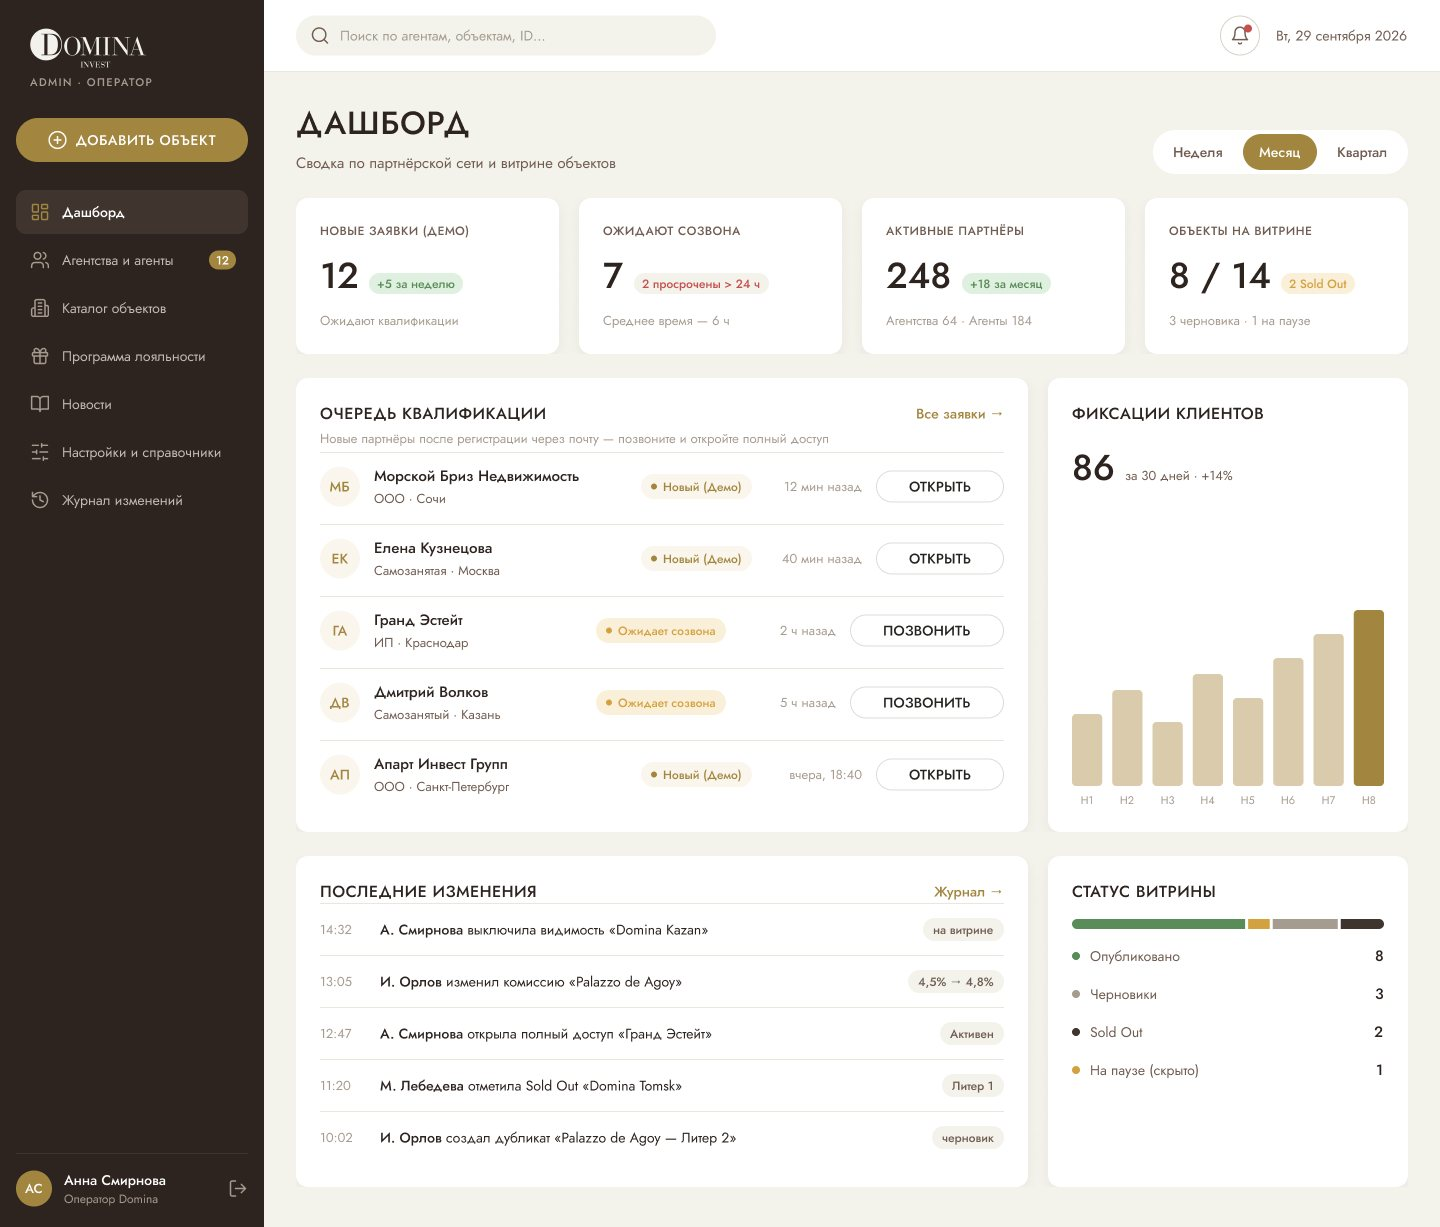
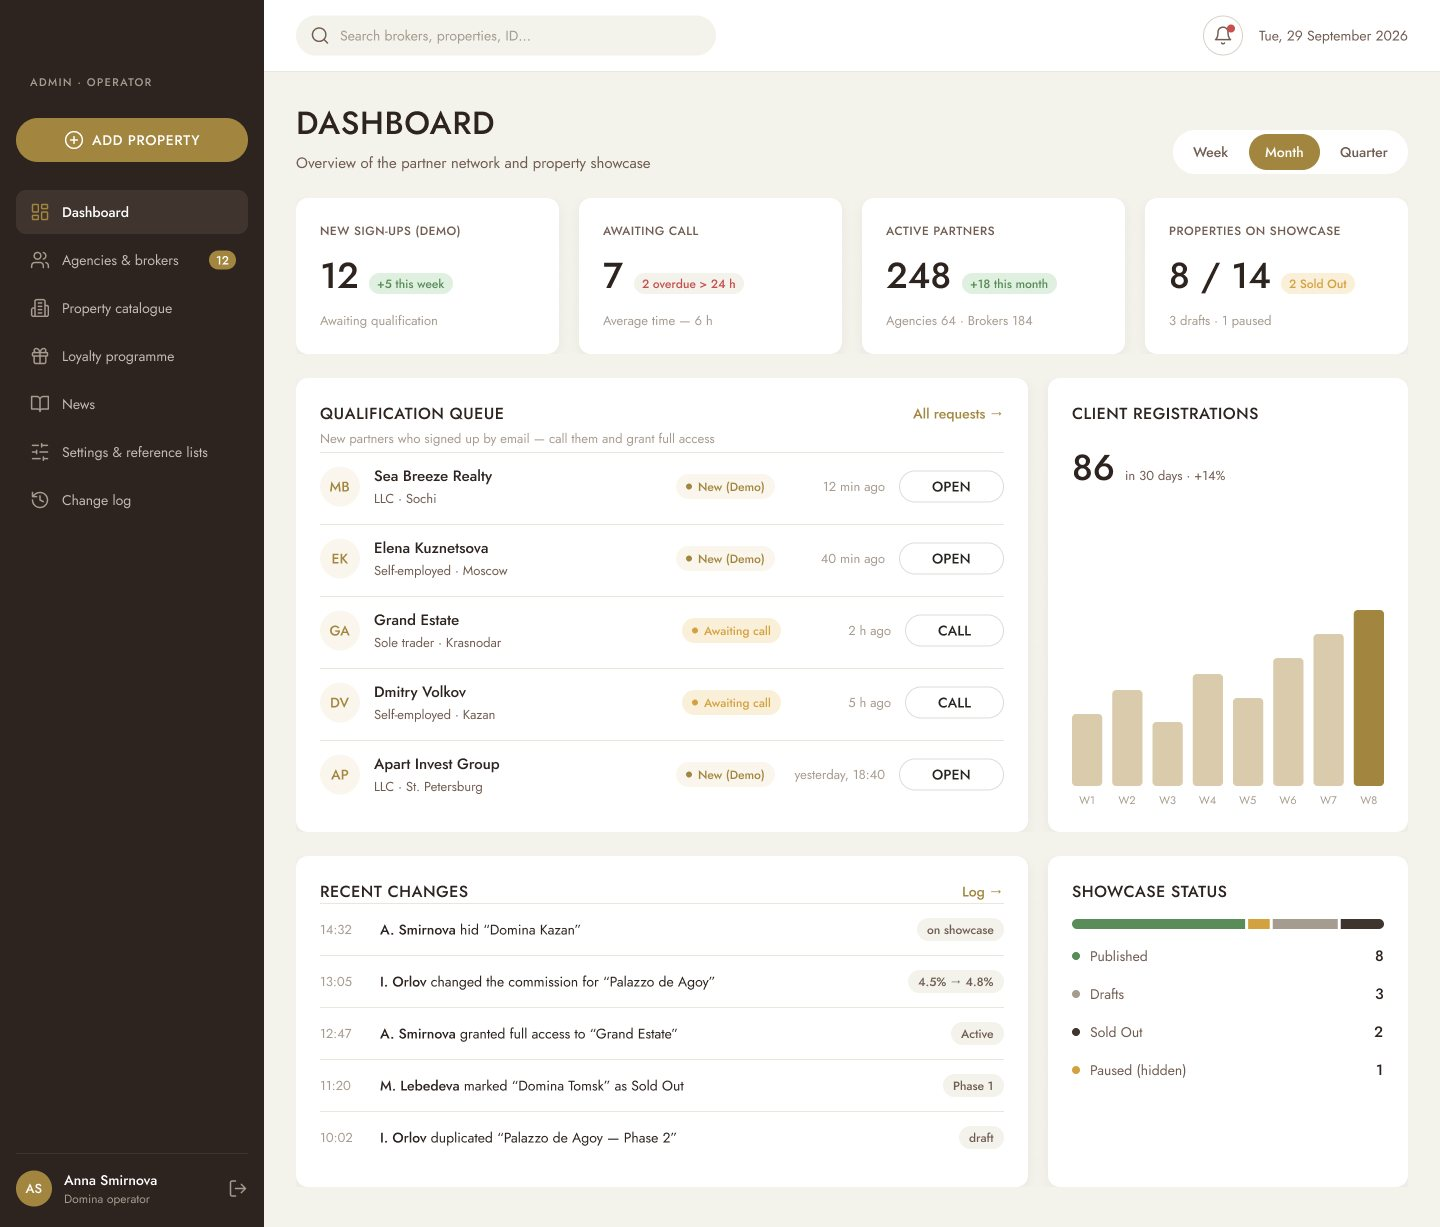
Domina case: replace admin panel screens with English versions
Claude-Session: https://claude.ai/code/session_01CvcxoMTCpv2boHEkqs8H7c

diff --git a/case-studies/domina.html b/case-studies/domina.html
@@ -355,11 +355,11 @@
       <h2 class="cs-section-title cs-section-title--dark" data-ru="Админка оператора: 17 экранов, чтобы платформа жила без разработчика">An operator admin: 17 screens so the platform runs without a developer</h2>
       <p class="dm-lead dm-lead--dark" data-ru="Оператор квалифицирует новых партнёров, заводит объекты через форму из 5 вкладок с индикатором готовности, проверяет карточку «глазами агента», управляет видимостью и Sold Out, настраивает программу лояльности. Каждое изменение пишется в журнал с именем оператора.">Operators qualify new partners, add objects through a 5-tab form with a readiness indicator, check the card “as a real estate broker”, toggle visibility and Sold Out, and configure the loyalty programme. Every change is logged with the operator's name.</p>
       <div class="dm-admin-grid">
-        <figure class="dm-admin-grid__main"><img src="../assets/img/case-studies/domina/admin-dashboard.jpg" alt="Admin dashboard" loading="lazy"><figcaption data-ru="Дашборд: очередь квалификации, фиксации, статус витрины, последние изменения">Dashboard: qualification queue, fixations, showcase status, recent changes</figcaption></figure>
-        <figure><img src="../assets/img/case-studies/domina/admin-agents.jpg" alt="Agencies and real estate brokers table" loading="lazy"><figcaption data-ru="Агентства и агенты: статусы доступа и кто пригласил">Agencies &amp; real estate brokers: access statuses and referrers</figcaption></figure>
-        <figure><img src="../assets/img/case-studies/domina/admin-object-form.jpg" alt="Object form, main information tab" loading="lazy"><figcaption data-ru="Форма объекта: 5 вкладок, автосохранение, дублирование литеров">Object form: 5 tabs, autosave, duplicate a building phase</figcaption></figure>
-        <figure><img src="../assets/img/case-studies/domina/admin-preview.jpg" alt="Preview as real estate broker" loading="lazy"><figcaption data-ru="Предпросмотр «как агент» с чек-листом перед публикацией">“Preview as real estate broker” with a pre-publish checklist</figcaption></figure>
-        <figure><img src="../assets/img/case-studies/domina/admin-loyalty.jpg" alt="Loyalty programme settings" loading="lazy"><figcaption data-ru="Настройки лояльности: ставка, срок действия бонусов, обмен через чат">Loyalty settings: rate, bonus expiry, redemption via chat</figcaption></figure>
+        <figure class="dm-admin-grid__main"><img src="../assets/img/case-studies/domina/admin-dashboard.jpg?v=en" alt="Admin dashboard" loading="lazy"><figcaption data-ru="Дашборд: очередь квалификации, фиксации, статус витрины, последние изменения">Dashboard: qualification queue, fixations, showcase status, recent changes</figcaption></figure>
+        <figure><img src="../assets/img/case-studies/domina/admin-agents.jpg?v=en" alt="Agencies and real estate brokers table" loading="lazy"><figcaption data-ru="Агентства и агенты: статусы доступа и кто пригласил">Agencies &amp; real estate brokers: access statuses and referrers</figcaption></figure>
+        <figure><img src="../assets/img/case-studies/domina/admin-object-form.jpg?v=en" alt="Object form, main information tab" loading="lazy"><figcaption data-ru="Форма объекта: 5 вкладок, автосохранение, дублирование литеров">Object form: 5 tabs, autosave, duplicate a building phase</figcaption></figure>
+        <figure><img src="../assets/img/case-studies/domina/admin-preview.jpg?v=en" alt="Preview as real estate broker" loading="lazy"><figcaption data-ru="Предпросмотр «как агент» с чек-листом перед публикацией">“Preview as real estate broker” with a pre-publish checklist</figcaption></figure>
+        <figure><img src="../assets/img/case-studies/domina/admin-loyalty.jpg?v=en" alt="Loyalty programme settings" loading="lazy"><figcaption data-ru="Настройки лояльности: ставка, срок действия бонусов, обмен через чат">Loyalty settings: rate, bonus expiry, redemption via chat</figcaption></figure>
       </div>
     </div>
   </section>
